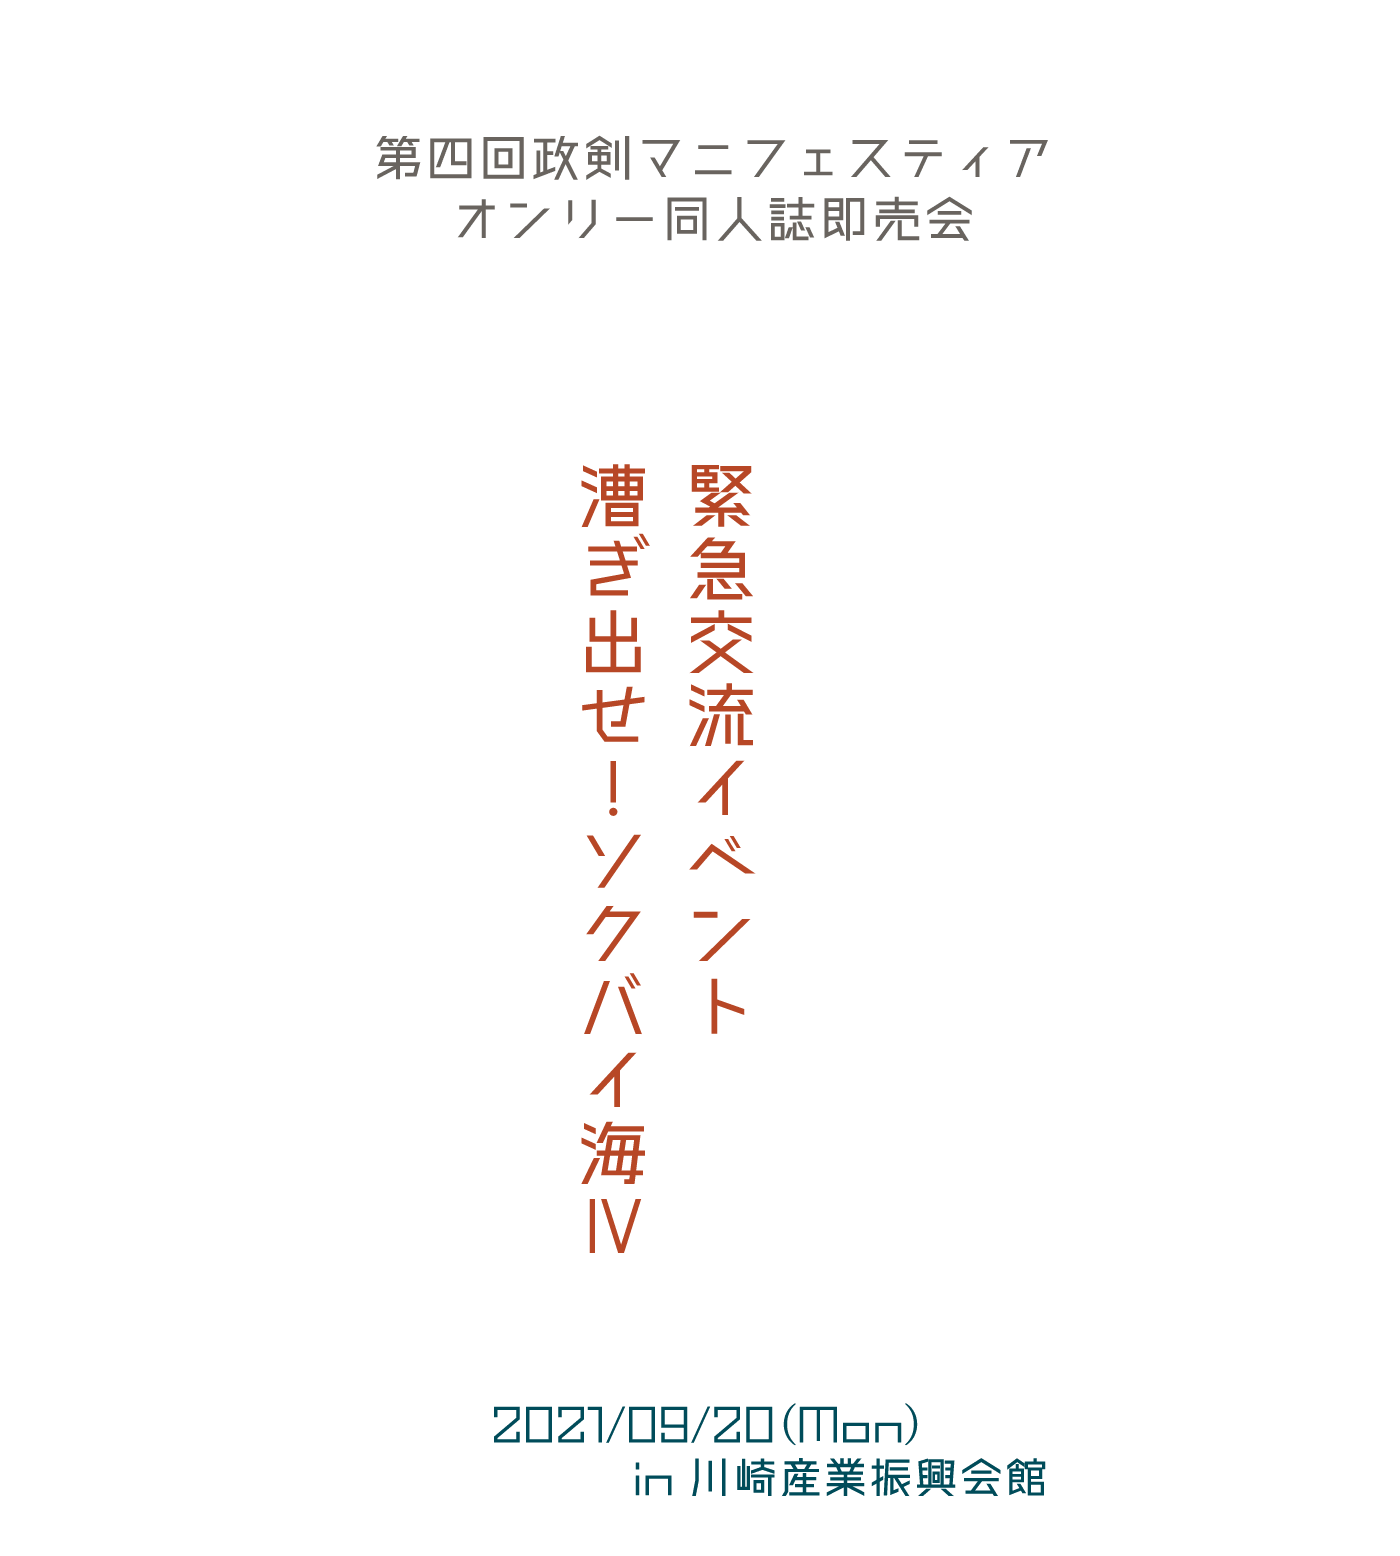
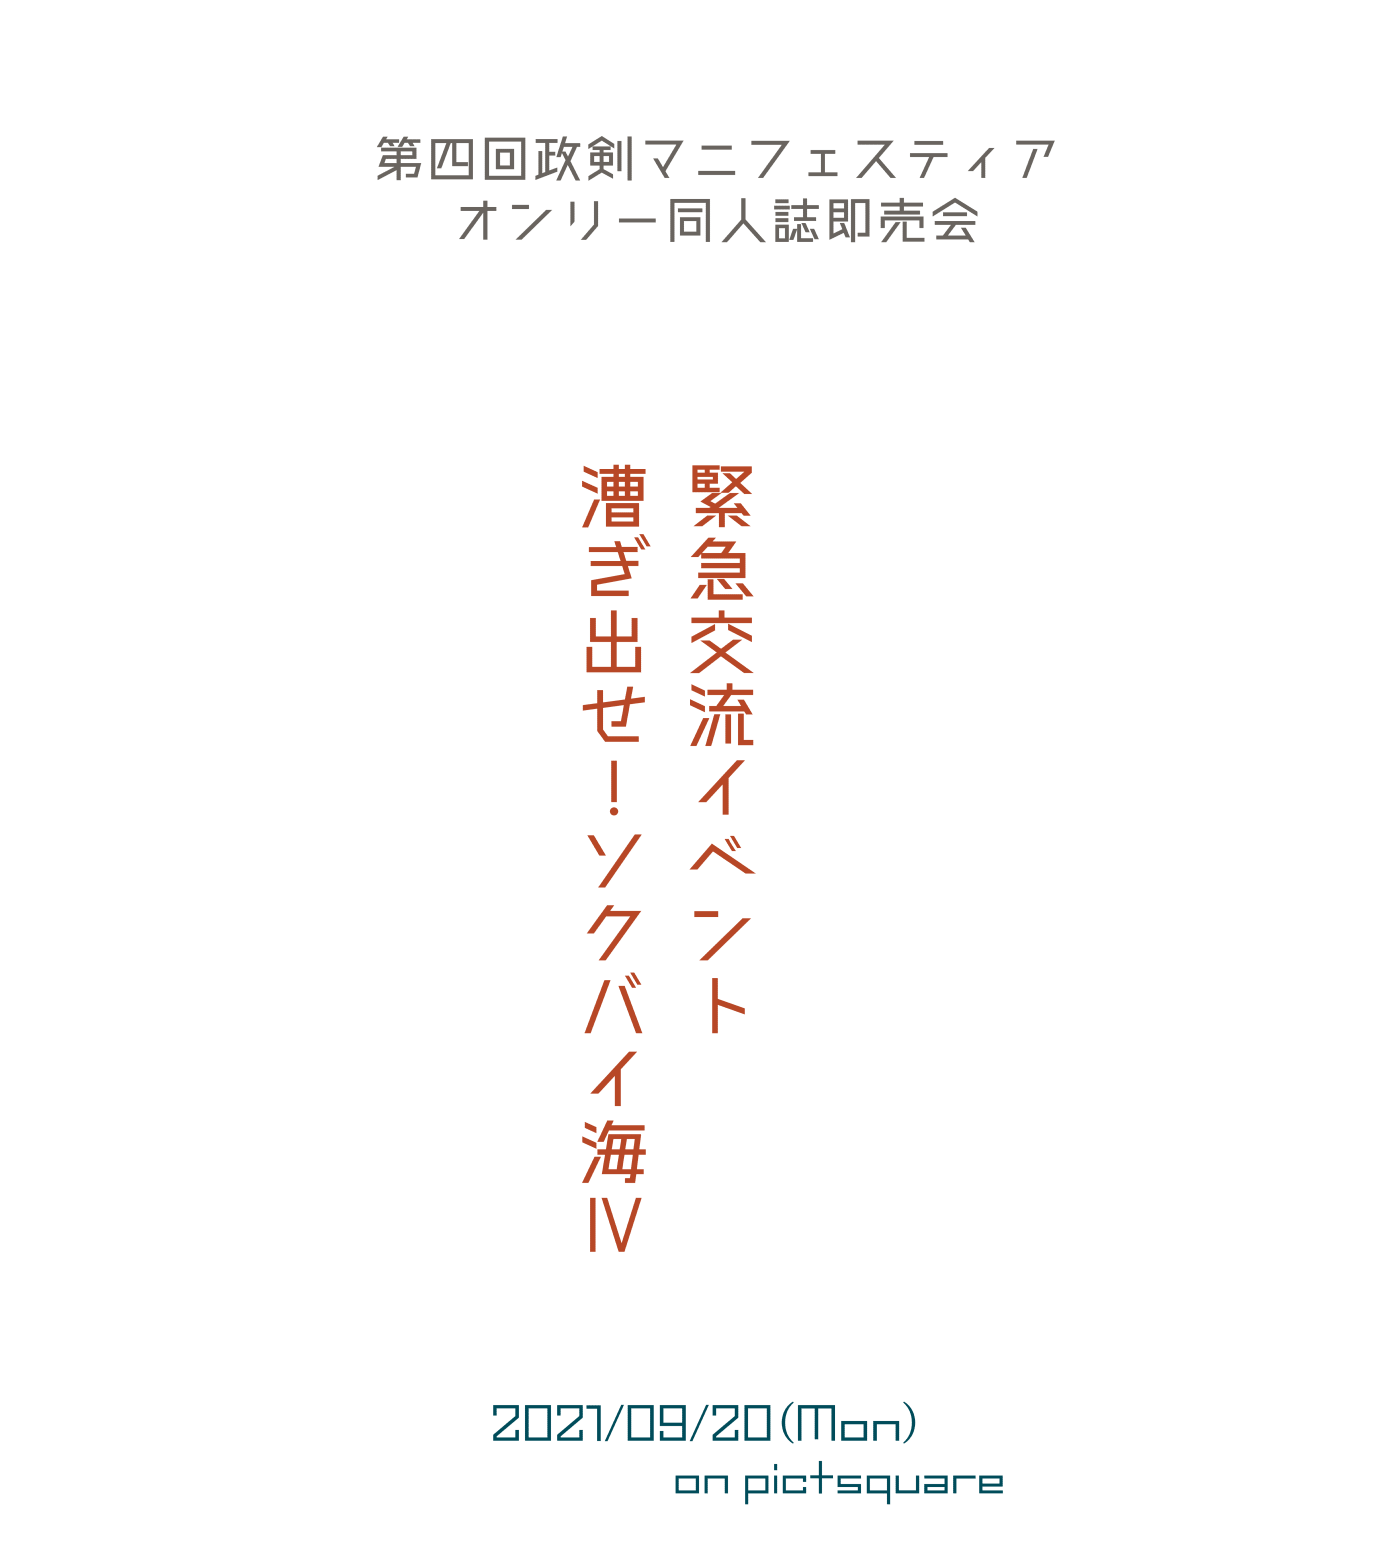
feat: オフラインイベント中止に伴う表記の変更に対応した

diff --git a/components/CanceledInfoAlert.tsx b/components/CanceledInfoAlert.tsx
@@ -1,0 +1,41 @@
+import React from "react";
+import {
+  Alert,
+  AlertDescription,
+  AlertIcon,
+  AlertTitle,
+} from "@chakra-ui/react";
+import { AnchorLink } from "~/components/AnchorLink";
+
+export const CanceledInfoAlert: React.VFC = () => (
+  <Alert
+    status="info"
+    variant="subtle"
+    flexDirection="column"
+    alignItems="center"
+    justifyContent="center"
+    textAlign="center"
+    marginTop={12}
+  >
+    <AlertIcon boxSize="40px" mr={0} />
+    <AlertTitle mt={4} mb={1} fontSize="lg">
+      オフラインイベント中止のお知らせ
+    </AlertTitle>
+    <AlertDescription maxWidth="100%" my={4}>
+      9/20(月・敬老の日)開催『漕ぎ出せ！ソクバイ海Ⅳ&nbsp;#アイムソウリー2021』ですが、
+      <br />
+      川崎市産業振興会館にて開催を予定していたリアル会場におけるイベントは中止とし、
+      <br />
+      pictsquareでの【オンライン開催に一本化】することに決定いたしました。
+      <br />
+      オンライン開催の詳細は以下ページをご確認ください。
+      <br />
+      <AnchorLink
+        href="
+      https://pictsquare.net/n3ci6v6yun9u383rp814sahs2wucdmwq"
+      >
+        https://pictsquare.net/n3ci6v6yun9u383rp814sahs2wucdmwq
+      </AnchorLink>
+    </AlertDescription>
+  </Alert>
+);

diff --git a/pages/infection.tsx b/pages/infection.tsx
@@ -3,6 +3,7 @@ import { Text, Flex, Table, Tbody, Td, Tr } from "@chakra-ui/react";
 import { DefaultLayout as Layout } from "~/components/layouts/index";
 import { AnchorLink } from "~/components/AnchorLink";
 import { Card } from "~/components/Card";
+import { CanceledInfoAlert } from "~/components/CanceledInfoAlert";
 
 const Page: React.VFC = () => {
   return (
@@ -14,6 +15,7 @@ const Page: React.VFC = () => {
         align="center"
         justify="center"
       >
+        <CanceledInfoAlert />
         <Card title="感染症対策ページ">
           <Card.Section title="はじめに">
             本イベントでは、会場の所在地である神奈川県が公表する『感染拡大防止対策』に則り、感染症の拡大防止に努めるものとします。

diff --git a/pages/circle.tsx b/pages/circle.tsx
@@ -13,6 +13,7 @@ import {
 import { DefaultLayout as Layout } from "~/components/layouts/index";
 import { AnchorLink } from "~/components/AnchorLink";
 import { Card } from "~/components/Card";
+import { CanceledInfoAlert } from "~/components/CanceledInfoAlert";
 
 const StyledLink = styled.a`
   &[aria-disabled] {
@@ -38,6 +39,7 @@ const Page: React.VFC = () => {
         align="center"
         justify="center"
       >
+        <CanceledInfoAlert />
         <Card title="サークル参加をする方へ">
           <Card.Section title="はじめに">
             当イベントにて二次創作作品の頒布や展示を希望される総理には、サークル参加の事前申込をお願いしております。

diff --git a/pages/common.tsx b/pages/common.tsx
@@ -3,6 +3,7 @@ import { Flex, Table, Tbody, Td, Tr } from "@chakra-ui/react";
 import { DefaultLayout as Layout } from "~/components/layouts/index";
 import { AnchorLink } from "~/components/AnchorLink";
 import { Card } from "~/components/Card";
+import { CanceledInfoAlert } from "~/components/CanceledInfoAlert";
 
 const Page: React.VFC = () => {
   return (
@@ -14,6 +15,7 @@ const Page: React.VFC = () => {
         align="center"
         justify="center"
       >
+        <CanceledInfoAlert />
         <Card title="参加者全般">
           <Card.Section title="はじめに">
             一般参加を予定される総理の皆さんは、下記の諸注意をお読みいただいた上でご参加ください。

diff --git a/pages/cosplay.tsx b/pages/cosplay.tsx
@@ -3,6 +3,7 @@ import styled from "@emotion/styled";
 import { Text, Button, Checkbox, Flex } from "@chakra-ui/react";
 import { DefaultLayout as Layout } from "~/components/layouts/index";
 import { Card } from "~/components/Card";
+import { CanceledInfoAlert } from "~/components/CanceledInfoAlert";
 
 const StyledLink = styled.a`
   &[aria-disabled] {
@@ -28,6 +29,7 @@ const Page: React.VFC = () => {
         align="center"
         justify="center"
       >
+        <CanceledInfoAlert />
         <Card title="コスプレ参加をする方へ">
           <Card.Section title="感染症対策に関するルール">
             ・混雑を避けるため、更衣室の利用は

diff --git a/pages/map.tsx b/pages/map.tsx
@@ -12,6 +12,7 @@ import styled from "@emotion/styled";
 import { DefaultLayout as Layout } from "~/components/layouts/index";
 import { Card } from "~/components/Card";
 import { AnchorLink } from "~/components/AnchorLink";
+import { CanceledInfoAlert } from "~/components/CanceledInfoAlert";
 
 const StyledIframe = styled.iframe`
   width: 100%;
@@ -40,6 +41,7 @@ const Page: React.VFC = () => {
         align="center"
         justify="center"
       >
+        <CanceledInfoAlert />
         <Card title="会場情報">
           <Wrap spacing={2} justify="center" align="center">
             <WrapItem
